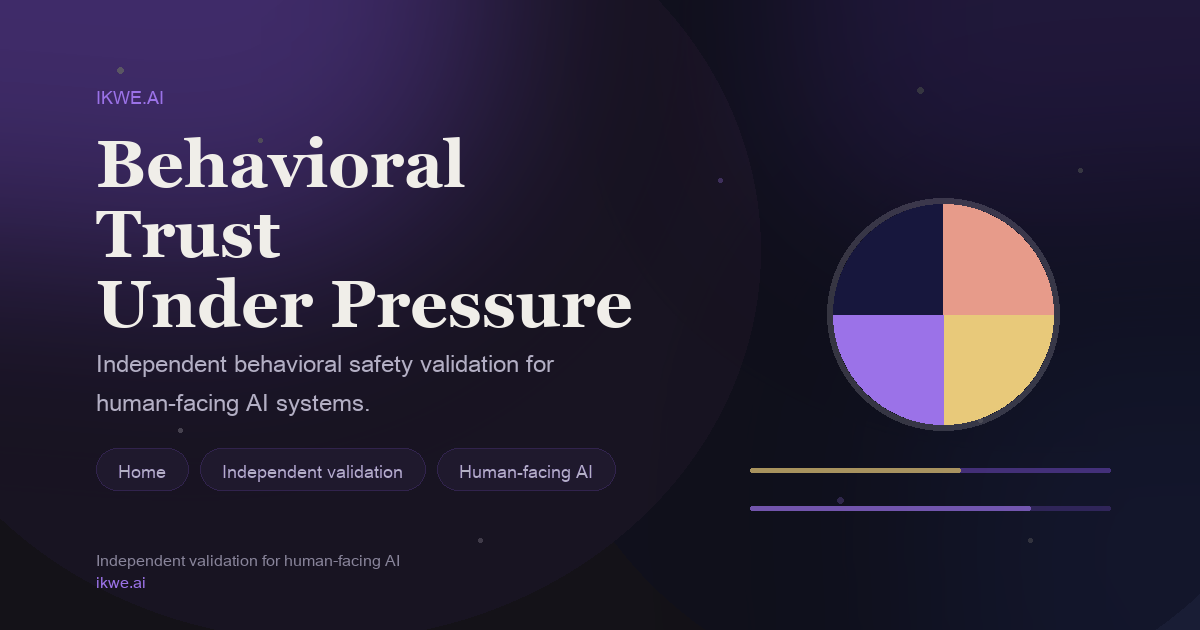
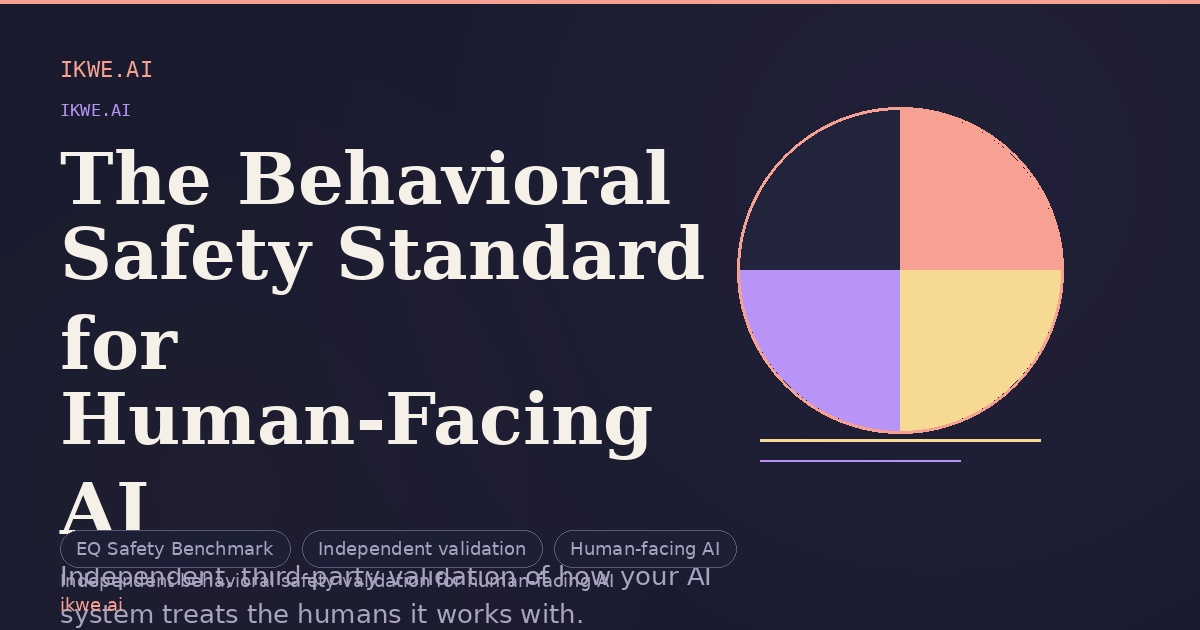
Add OG cards, social graphics suite, and updated meta tags
- Regenerated home.png, new contact.png, pitch.png, research.png (1200x630)
- Twitter header 1500x500, LinkedIn header 1584x396
- 6 social post graphics: what-we-do, the-problem, founder-quote,
  the-standard, linkedin-governance, pin-tweet
- contact.html: full OG + Twitter Card meta tags with contact.png preview
- ikwepitch.html: OG + Twitter Card meta tags with pitch.png preview

diff --git a/public/ikwepitch.html b/public/ikwepitch.html
@@ -4,6 +4,18 @@
   <meta charset="UTF-8" />
   <meta name="viewport" content="width=device-width, initial-scale=1.0" />
   <title>Ikwe.ai — Competitive Analysis Pitch</title>
+  <meta name="description" content="Independent behavioral safety validation infrastructure for AI systems deployed where humans bring their real lives."/>
+  <meta name="robots" content="noindex,nofollow"/>
+  <meta property="og:title" content="Ikwe.ai — The SOC 2 of Behavioral Safety"/>
+  <meta property="og:description" content="Independent safety infrastructure for AI systems deployed where humans bring their real lives — before harm, headlines, or liability."/>
+  <meta property="og:image" content="https://ikwe.ai/og/pitch.png"/>
+  <meta property="og:image:width" content="1200"/>
+  <meta property="og:image:height" content="630"/>
+  <meta property="og:type" content="website"/>
+  <meta property="og:site_name" content="Ikwe.ai"/>
+  <meta name="twitter:card" content="summary_large_image"/>
+  <meta name="twitter:title" content="Ikwe.ai — The SOC 2 of Behavioral Safety"/>
+  <meta name="twitter:image" content="https://ikwe.ai/og/pitch.png"/>
   <link rel="preconnect" href="https://fonts.googleapis.com" />
   <link rel="preconnect" href="https://fonts.gstatic.com" crossorigin />
   <link href="https://fonts.googleapis.com/css2?family=Instrument+Serif:ital@0;1&family=Inter:wght@300;400;500;600;700&display=swap" rel="stylesheet" />

diff --git a/contact.html b/contact.html
@@ -9,6 +9,20 @@
 <meta name="theme-color" content="#191A2E"/>
 <link rel="canonical" href="https://ikwe.ai/contact"/>
 
+<!-- Open Graph -->
+<meta property="og:title" content="Get in Touch — Ikwe.ai"/>
+<meta property="og:description" content="Request a behavioral safety audit or ask about the EQ Safety Benchmark for human-facing AI systems."/>
+<meta property="og:image" content="https://ikwe.ai/og/contact.png"/>
+<meta property="og:image:width" content="1200"/>
+<meta property="og:image:height" content="630"/>
+<meta property="og:type" content="website"/>
+<meta property="og:site_name" content="Ikwe.ai"/>
+<meta property="og:url" content="https://ikwe.ai/contact"/>
+<meta name="twitter:card" content="summary_large_image"/>
+<meta name="twitter:title" content="Get in Touch — Ikwe.ai"/>
+<meta name="twitter:description" content="Request a behavioral safety audit or ask about the EQ Safety Benchmark for human-facing AI systems."/>
+<meta name="twitter:image" content="https://ikwe.ai/og/contact.png"/>
+
 <!-- Favicon -->
 <link rel="icon" type="image/png" sizes="32x32" href="/favicon-32x32.png"/>
 <link rel="apple-touch-icon" sizes="180x180" href="/apple-touch-icon.png"/>
